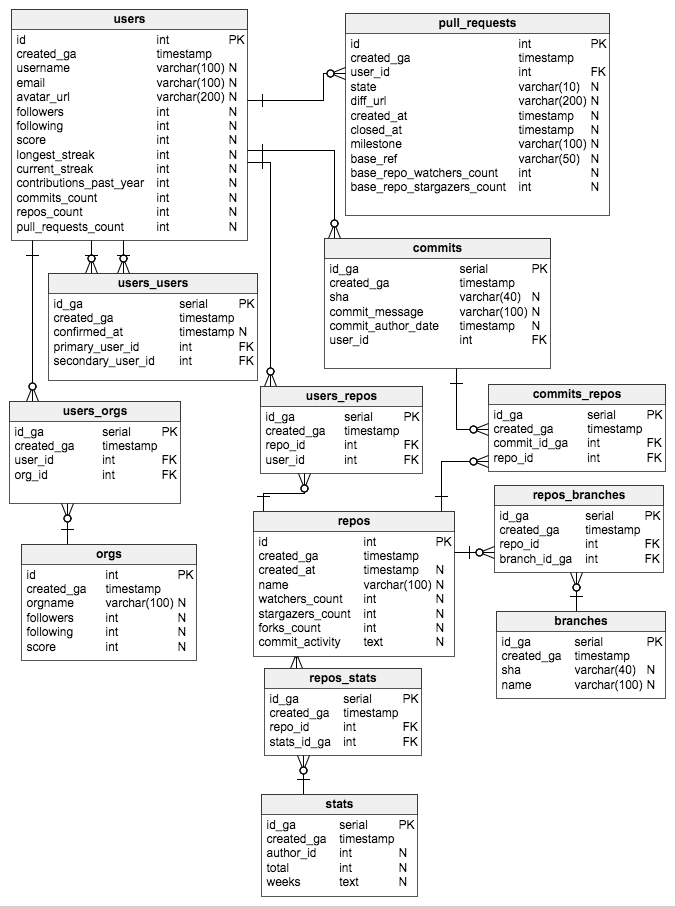
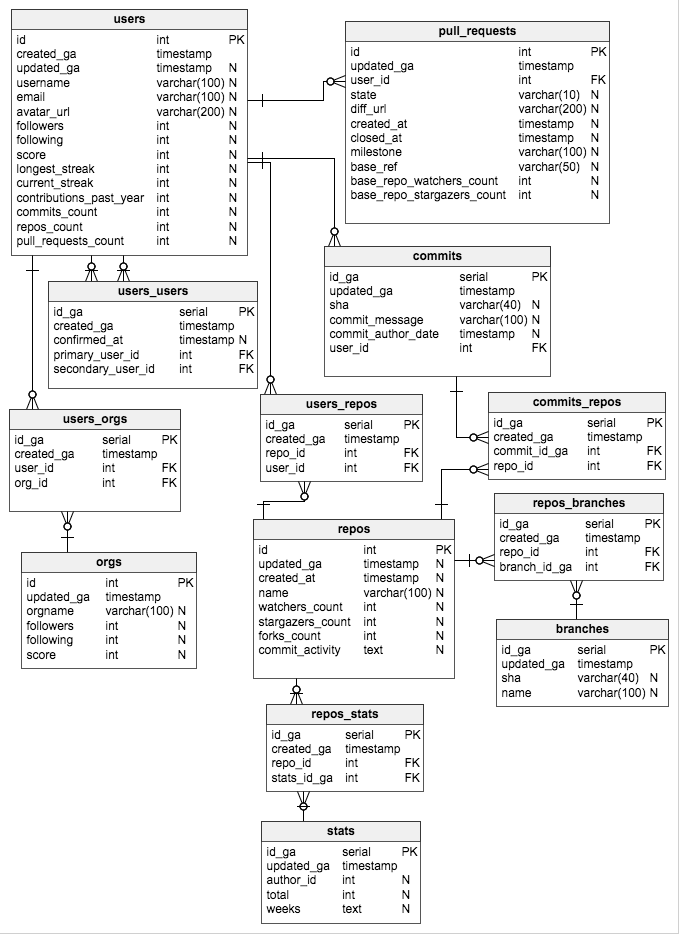
Update db schema to use 'updated_ga' when updating a user or repo

Changed region(s): [[0.0, 0.0, 0.9941, 1.0], [0.1553, 0.0, 0.2175, 0.0309]]

diff --git a/server/helpers/auth.js b/server/helpers/auth.js
@@ -14,7 +14,7 @@ const pgp = require('../db/database.js').pgp;
 // also updates their repos in our database
 const getOrAddUser = function(accessToken, refreshToken, profile, callback) {
   const id = profile._json.id;
-  const created_ga = pgp.as.date(new Date());
+  const dbTimestamp = pgp.as.date(new Date());
   const username = profile._json.login;
   const email = profile._json.email;
   const avatar_url = profile._json.avatar_url;
@@ -22,14 +22,14 @@ const getOrAddUser = function(accessToken, refreshToken, profile, callback) {
   const following = profile._json.following;
   
   
-  // add the user to our database
+  // add the user to our database, or update them if they already exist
   db.any('INSERT INTO $1~ AS $2~ ($3~, $4~, $5~, $6~, $7~, $8~, $9~) ' +
     'VALUES ($10, $11, $12, $13, $14, $15, $16) ' +
     'ON CONFLICT ($3~) ' +
-    'DO UPDATE SET ($4~, $5~, $6~, $7~, $8~, $9~) = ($11, $12, $13, $14, $15, $16) ' +
+    'DO UPDATE SET ($4~, $5~, $17~, $7~, $8~, $9~) = ($11, $12, $13, $14, $15, $16) ' +
     'WHERE $2~.$3~ = $10',
     ['users', 'u', 'id', 'username', 'email', 'created_ga', 'avatar_url', 'followers', 'following',
-    id, username, email, created_ga, avatar_url, followers, following])
+    id, username, email, dbTimestamp, avatar_url, followers, following, 'updated_ga'])
     .then((data) => {
       return callback(null, {data: profile._json, token: accessToken});    
     })
@@ -37,19 +37,7 @@ const getOrAddUser = function(accessToken, refreshToken, profile, callback) {
       console.log('error in user upsert');
       console.error(error);
     });  
-  
-  // db.any('INSERT INTO $1~ ($2~, $3~, $4~, $5~, $6~, $7~, $8~) ' +
-  //   'SELECT $9, $10, $11, $12, $13, $14, $15 WHERE NOT EXISTS ' +
-  //   '(SELECT * FROM $1~ WHERE $2~ = $9)',
-  //   ['users', 'id', 'username', 'email', 'created_ga', 'avatar_url', 'followers', 'following', 
-  //   id, username, email, created_ga, avatar_url, followers, following])
-  //   .then((data) => {
-  //     return callback(null, {data: profile._json, token: accessToken});    
-  //   })
-  //   .catch((error) => {
-  //     console.error(error);
-  //   });
-    
+      
   // update the user's repos in our database   
   var options = {
     url: CALLBACKHOST + '/api/v1/users/' + id + '/repos',

diff --git a/server/controllers/userController.js b/server/controllers/userController.js
@@ -73,11 +73,11 @@ exports.updateUser = function(req, res) {
     db.one('INSERT INTO $1~ AS $2~ ($3~, $4~, $5~, $6~, $7~, $8~, $9~) ' +
       'VALUES ($10, $11, $12, $13, $14, $15, $16) ' +
       'ON CONFLICT ($3~) ' + 
-      'DO UPDATE SET ($4~, $5~, $6~, $7~, $8~, $9~) = ($11, $12, $13, $14, $15, $16) ' +
+      'DO UPDATE SET ($17~, $5~, $6~, $7~, $8~, $9~) = ($11, $12, $13, $14, $15, $16) ' +
       'WHERE $2~.$3~ = $10 ' +
       'RETURNING *',
       ['users', 'u', 'id', 'created_ga', 'username', 'email', 'avatar_url', 'followers', 'following',
-      queryId, dbTimestamp, username, body.email, body.avatar_url, body.followers, body.following])
+      queryId, dbTimestamp, username, body.email, body.avatar_url, body.followers, body.following, 'updated_ga'])
     .then((data) => {
       res.send(data);
     })
@@ -133,7 +133,7 @@ exports.retrieveRepos = function(req, res) {
           'ON CONFLICT ($2~) ' + 
           'DO UPDATE SET ($3~, $4~, $5~, $6~, $7~, $8~) = ($10, $11, $12, $13, $14, $15) ' +
           'WHERE $16~.$2~ = $9',
-          ['repos', 'id', 'created_ga', 'created_at', 'watchers_count', 'stargazers_count', 'forks_count', 'name',
+          ['repos', 'id', 'updated_ga', 'created_at', 'watchers_count', 'stargazers_count', 'forks_count', 'name',
           repo.id, dbTimestamp, repo.created_at, repo.watchers_count, repo.stargazers_count, repo.forks_count, repo.name, 'r']);
       });
       return task.batch(queries);
@@ -175,7 +175,7 @@ exports.retrieveRepos = function(req, res) {
   
   // sends the response for this API endpoint, containing all this user's repos
   var patchReposResponse = function () {
-    db.any(('SELECT r.id, r.created_ga, r.created_at, r.watchers_count, r.stargazers_count, r.forks_count ' + 
+    db.any(('SELECT r.id, r.updated_ga, r.created_at, r.watchers_count, r.stargazers_count, r.forks_count ' + 
       'FROM users_repos ur ' +
       'INNER JOIN repos r ' + 
       'ON r.id = ur.repo_id ' + 
